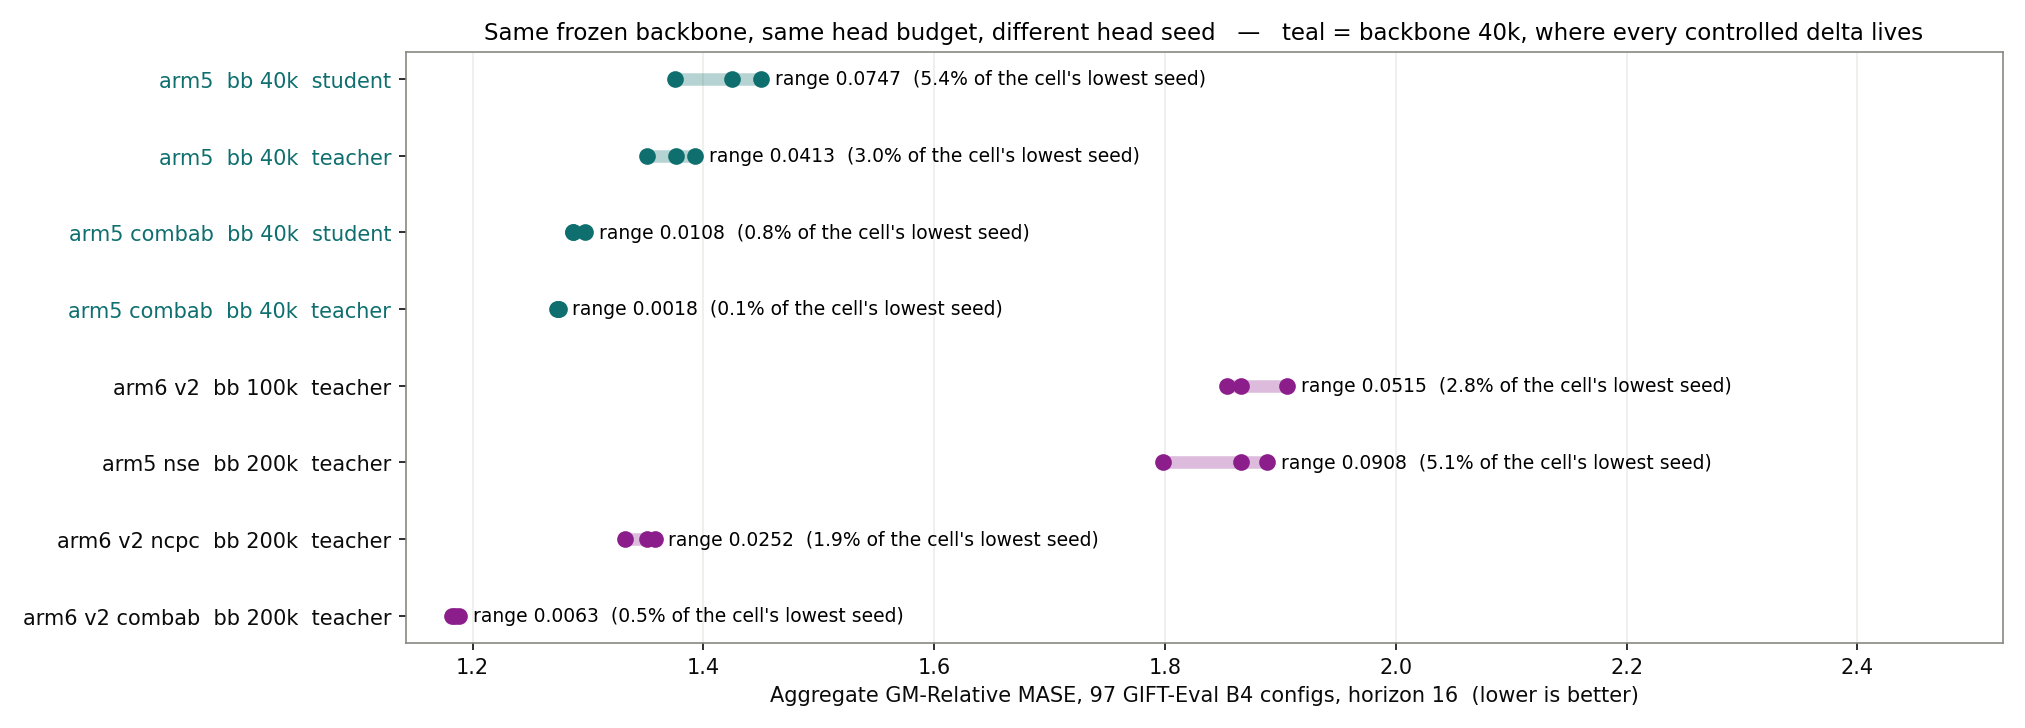
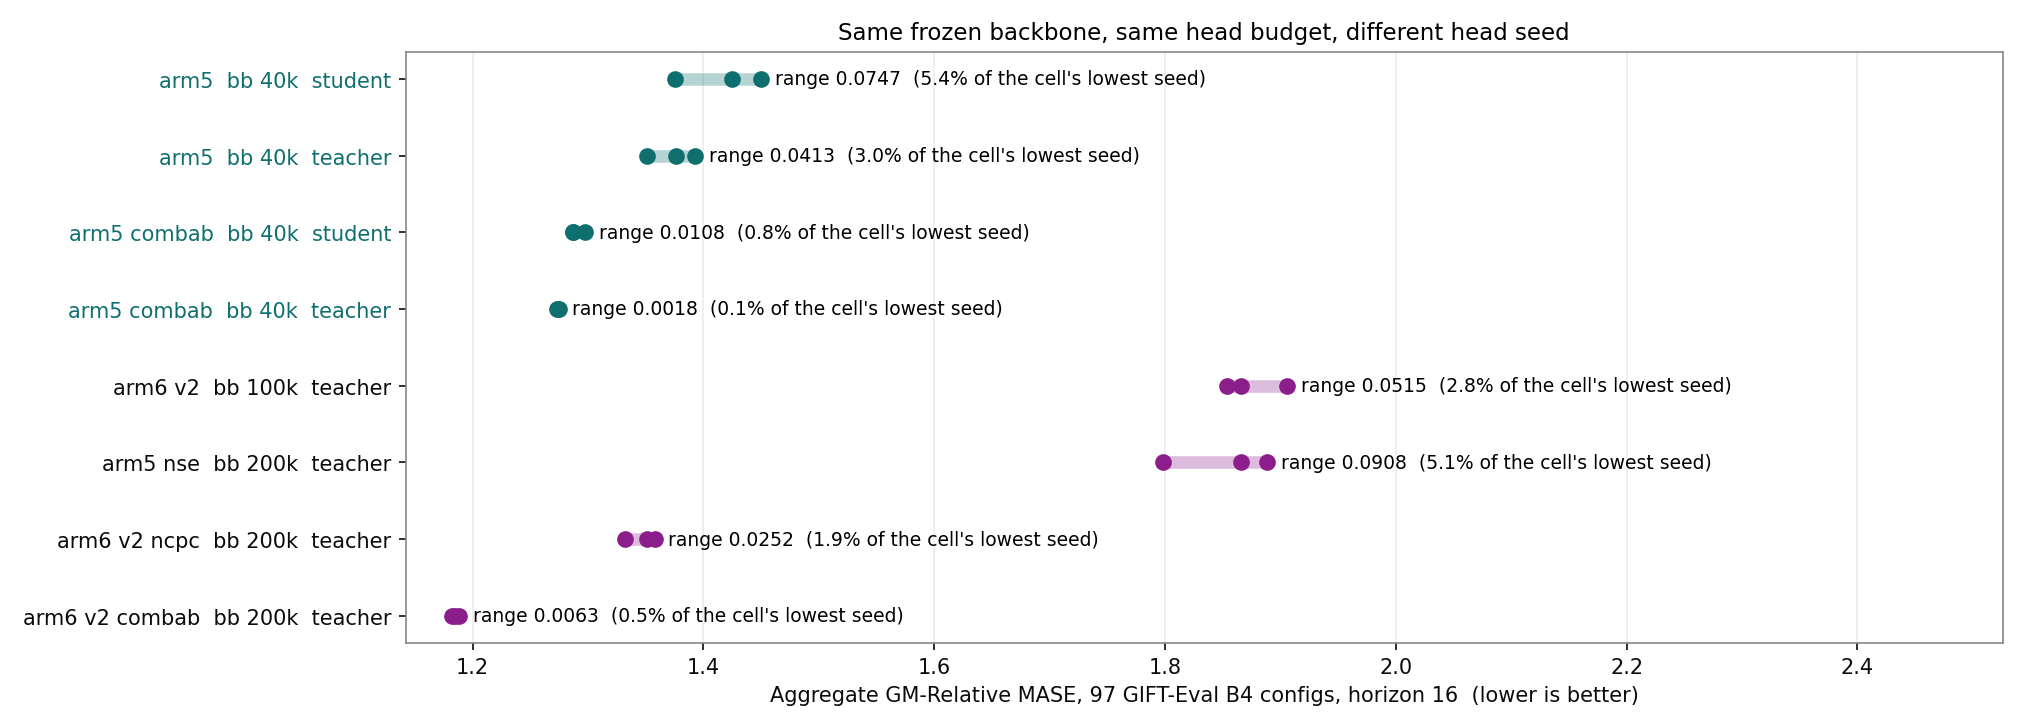
exp(#390): twenty-first-pass report — presentation only: two-sentence opening, glossary folded into the protocol, duplicated replicate datum stated once, exact 0.0977 in the 100k caption

Changed region(s): [[0.2178, 0.0302, 0.9644, 0.0604]]

diff --git a/reports/2026-08-04_lalign_teacher/plots/_make_seed_spread.py b/reports/2026-08-04_lalign_teacher/plots/_make_seed_spread.py
@@ -60,8 +60,7 @@ for lab, r in zip(ax.get_yticklabels(), rows[::-1]):
     lab.set_color(C_40K if int(r["bb_steps"]) == CONTROLLED_BB else INK)
 ax.set_xlabel("Aggregate GM-Relative MASE, 97 GIFT-Eval B4 configs, "
               "horizon 16  (lower is better)")
-ax.set_title("Same frozen backbone, same head budget, different head seed"
-             "   —   teal = backbone 40k, where every controlled delta lives",
+ax.set_title("Same frozen backbone, same head budget, different head seed",
              fontsize=11)
 ax.grid(True, axis="x", color=GRID, alpha=0.6)
 lo = min(float(v) for r in rows for v in r["values"].split())

diff --git a/reports/2026-08-04_lalign_teacher/lalign_teacher.md b/reports/2026-08-04_lalign_teacher/lalign_teacher.md
@@ -1,6 +1,6 @@
 # The EMA-teacher alignment target does not move the ten-cell set at backbone 40k, within a bound of about 0.09 GM-Relative MASE
 
-Six of the ten controlled pairs favour the teacher and four the student, a split the paired tests do not separate from zero. Of the two cells re-headed under three head seeds, the larger effect changes sign and the smaller one, `arm5 combab`, does not, moving down by 0.017 on the seed mean.
+Six of the ten controlled pairs favour the teacher and four the student, a split the paired tests do not separate from zero. Of the two cells re-headed under three head seeds, the larger effect changes sign under re-heading and the smaller one, `arm5 combab`, does not.
 
 ![Teacher minus student GM-Relative MASE at backbone 40k](plots/controlled_vs_cross_delta.png)
 
@@ -10,21 +10,11 @@ Six of the ten controlled pairs favour the teacher and four the student, a split
 >
 > **`⟲`** — the cell was retrained with `--align-target teacher`.
 >
-> **EMA teacher** — an exponential-moving-average copy of the encoder weights.
->
-> **Student target** — `--align-target student`, which takes the alignment target from the student encoder under stop-gradient. It is the comparison side of every controlled delta here.
->
-> **Re-headed** — the quantile head was retrained on the same frozen backbone under a different `--seed`. The backbone is unchanged.
->
-> **Code snapshot** — which checkout produced a number: `#390-branch` is this branch, `#379-sweep` is the earlier sweep it is compared against. The column is `code_snapshot` in `results/gm_relative_mase.csv`.
->
 > **GM-Relative MASE** — the metric of every figure here; lower is better, 1.0 is parity with seasonal naive (full definition in [Protocol](#8-protocol)).
 
 ![Per-seed GM-Relative MASE on eight frozen backbones](plots/head_seed_spread.png)
 
 *Eight frozen backbones, every cell in this report carrying replicate head seeds (`results/seed_spread.csv`). Teal = backbone 40k, both sides of the controlled comparison.*
-
-Counting the ten pairs as ten, the bound is 6.6% of 1.3455, the median GM-Relative MASE of the twenty backbone-40k measurements the pairs are built from, and the two loss recipes, which are the units the design actually replicates, have means running in opposite directions ([Protocol](#8-protocol)).
 
 ## 1. Across backbone horizons
 
@@ -39,8 +29,6 @@ Counting the ten pairs as ten, the bound is 6.6% of 1.3455, the median GM-Relati
 ![GM-Relative MASE of the 8 cells extended to backbone 200k](plots/eval_2L_gm_mase_bars_200k.png)
 
 *The 8 cells extended to backbone 200k. Filled dot = 200k, hollow = 100k, whisker = measured head-seed range (3 of 8 cells).*
-
-Five of those eight score lower again at 200k.
 
 ## 2. Per-domain
 
@@ -76,7 +64,7 @@ No non-finite loss or gap appears in any of the 40 backbones, and `arm1 combab` 
 
 ## 6. Reproduction control
 
-Nine of the ten student controls reproduce the earlier sweep's number and share their backbone trace with it step for step, while `arm5 base` ⧗ differs by backbone replicate, not by code, the earlier sweep having published replicate r3 where this branch reproduces r1 at all 40 000 steps and r3 at none ([table](#student-control-against-the-earlier-sweep-backbone-40k), `results/replicate_provenance_40k.csv`, [`results/README.md`](results/README.md)).
+Nine of the ten student controls reproduce the earlier sweep's number and share their backbone trace with it step for step. `arm5 base` ⧗ differs by backbone replicate, not by code: the earlier sweep published r3, this branch reproduces r1 at all 40 000 steps and r3 at none ([table](#student-control-against-the-earlier-sweep-backbone-40k), `results/replicate_provenance_40k.csv`, [`results/README.md`](results/README.md)).
 
 ## 7. Tables
 
@@ -149,7 +137,7 @@ Nine of the ten student controls reproduce the earlier sweep's number and share 
 | `arm6_v2 ncpc` | 1.3012 | 1.2978 | 1.0027 | 0.9672 | 1.0452 | no |
 | `arm6_v2 combab` | 1.2514 | 1.1616 | 1.0773 | 1.0439 | 1.1254 | yes |
 
-*Backing data for section 3. Ratio = teacher ÷ earlier sweep, below 1.0 means the teacher run scored lower. Intervals are 95% dataset-cluster bootstraps (`results/eval_bootstrap_ci.csv`) and cover eval sampling only. All ten arms left more than one backbone replicate in the earlier sweep, but they are sequential continuations with disjoint step ranges, and on all ten exactly one replicate spans step 100 000 (`results/replicate_provenance_40k.csv`), so no row here had a replicate to pick wrong. ⧗ marks the one arm whose 40k row sits on a different replicate, where the mismatch is worth about 0.1.*
+*Backing data for section 3. Ratio = teacher ÷ earlier sweep, below 1.0 means the teacher run scored lower. Intervals are 95% dataset-cluster bootstraps (`results/eval_bootstrap_ci.csv`) and cover eval sampling only. All ten arms left more than one backbone replicate in the earlier sweep, but they are sequential continuations with disjoint step ranges, and on all ten exactly one replicate spans step 100 000 (`results/replicate_provenance_40k.csv`), so no row here had a replicate to pick wrong. ⧗ marks the one arm whose 40k row sits on a different replicate, where the mismatch is worth 0.0977.*
 
 ### The controlled comparison at backbone 40k
 
@@ -260,7 +248,9 @@ Nine of the ten student controls reproduce the earlier sweep's number and share 
 - **Latent drift** at checkpoint pair `(step_i, step_j)` — `mean_{b,t,c} 1 − cos(h_t(model_j), h_t(model_i))` on a fixed held-out batch (`torch.manual_seed(20260722)`, `B=8`, `T=4096`, `C=1`, ARMA-synthetic), and the same for `e_t`. A setting counts as *lower* than base when its mean drift over adjacent-checkpoint pairs falls below the base setting of the same recipe; the section-4 denominator is the six recipes and the p is a two-sided exact binomial test.
 - **Late drift** — the mean `h_t` drift over adjacent-checkpoint pairs beyond backbone step 100 000.
 - **`u_batchtime`** — `1/(d · off-diagonal Gram mean)` over `(B×T)` samples of the given latent, clamped to [0, 1]. 1 = every `H` dimension carries independent information.
-- **`L_align`** — `(2 − 2·cos(f_t, h_target_{t+1})).mean()`, pulling the forecaster output toward the next encoder latent, gradient through the forecaster only. `--align-target student` takes `h_target` from the student encoder under stop-gradient; `--align-target teacher` takes it from the EMA teacher. The ten `⟲` cells are the teacher setting.
+- **`L_align`** — `(2 − 2·cos(f_t, h_target_{t+1})).mean()`, pulling the forecaster output toward the next encoder latent, gradient through the forecaster only. `--align-target student` takes `h_target` from the student encoder under stop-gradient; `--align-target teacher` takes it from the EMA teacher, an exponential-moving-average copy of the encoder weights. The student target is the comparison side of every controlled delta here; the ten `⟲` cells are the teacher setting.
+- **Re-headed** — the quantile head was retrained on the same frozen backbone under a different `--seed`. The backbone is unchanged.
+- **Code snapshot** — which checkout produced a number: `#390-branch` is this branch, `#379-sweep` is the earlier sweep it is compared against. The column is `code_snapshot` in `results/gm_relative_mase.csv`.
 - **Loss window** — each loss value in section 5 is the mean over the first, or the last, 5% of the logged steps of that window, not the value at a single step. **Rise-from-minimum** is the run's final loss minus the lowest loss it ever recorded; rank 1 = lowest of the 40 backbones, the same direction as the peak qk logit rank.
 - **Peak qk logit** — `qk_logit_maxabs`, the peak absolute pre-softmax attention logit, logged every 200 steps; the table value is the maximum over layers, over the `enc` and `fcst` blocks, and over the run, while the lower panels of the section-5 figure plot it averaged over layers and blocks. Rank 1 = lowest of the 40 backbones.
 
@@ -290,11 +280,10 @@ Eight cells were additionally re-headed under seeds 20260723 and 20260724 on the
 
 - The head budget changes with the backbone step (15k at 40k, 30k at 100k and 200k), so any within-arm statement across backbone steps moves two things at once.
 - The left radar of section 2 mixes cells measured at backbone 100k and at 200k, so it moves the backbone step as well as the cell.
-- The `code_snapshot_shift` row of `results/controlled_paired_tests_40k.csv` has `min_delta` −0.0977, which is the `arm5 base` backbone-provenance case of section 6, not a code-snapshot difference.
 - The 200k row compares a teacher-selected subset against a differently selected subset of the earlier sweep, so no like-for-like 200k claim is available.
 - The ten per-cell intervals in the headline figure are 95% and uncorrected for the ten comparisons, so a per-cell reading is not a family-wise claim. The aggregate tests over the set of ten are the right frame (`results/controlled_paired_tests_40k.csv`).
 - Every backbone in this report, both targets, is seed 20260520. Nine of ten controls reproducing the earlier sweep therefore measures determinism given that seed, not the spread across backbone seeds. No cell here carries a second backbone seed.
-- One cell does carry a second backbone *trajectory*, and it is the largest replication datum in the run. `arm5 base`, student target, backbone 40k, same config and same seed 20260520 on all 97 configs, scores 1.4501 on replicate r1 and 1.5478 on r3: 0.0977 apart. That is larger than every 40k head-seed range measured here (0.0018 to 0.0747) and larger than the aggregate bound in the opening, and it sits within 0.001 of that same cell's own controlled delta, −0.0986: retraining this configuration from the same seed moves the cell about as much as switching the flag does. It is `n = 1` and it comes from a resume-induced divergence rather than a fresh backbone seed, so read it as a lower bound on backbone-trajectory spread, not as a seed-spread measurement. Everything else in this report's uncertainty budget is head seeds and eval sampling.
+- One cell does carry a second backbone *trajectory*, and it is the largest replication datum in the run: the `arm5 base` replicate mismatch of section 6. That 0.0977 is larger than every 40k head-seed range measured here (0.0018 to 0.0747) and larger than the aggregate bound in the opening, and it sits within 0.001 of that same cell's own controlled delta, −0.0986: retraining this configuration from the same seed moves the cell about as much as switching the flag does. It is `n = 1` and it comes from a resume-induced divergence rather than a fresh backbone seed, so read it as a lower bound on backbone-trajectory spread, not as a seed-spread measurement. Everything else in this report's uncertainty budget is head seeds and eval sampling.
 - The head-seed spread is measured on 2 of the 10 controlled cells, `arm5 base` and `arm5 combab`; the other eight are marked `not measured`, not given a borrowed spread. Those two were picked by hand after their single-seed deltas were known, with no selection rule fixed in advance, and `arm5 ncpc` carries the largest single-seed difference of the run, −0.2156, and was never re-headed. So the surviving cell is one of two tested, not one of ten, and its 3-of-3 sign observation is p = 0.25 on its own, over per-seed differences running −0.0133 to −0.0230.
 - The ten pairs are two loss recipes by five settings on one backbone seed, and every pair shares the student baseline of its recipe's design, so `n = 10` in the sign and Wilcoxon tests is a nominal ten, not ten independent pairs. The two recipe means are −0.0657 (`arm5`) and +0.0273 (`arm6_v2`); with two clusters the support of a cluster-resampled mean is exactly those two values, so that enumeration is degenerate and the interval quoted in the opening is the t over the ten pairs.
 - Backbone provenance was checked by span query at backbone 40k and at backbone 100k. At 40k exactly one arm, `arm5`, carries two replicates spanning the step, and that is the one mismatch section 6 finds; at 100 000 no arm does, because the extra replicates are sequential continuations with disjoint ranges. A replicate deleted before the manifest was built would not appear in either query.
@@ -311,6 +300,6 @@ Eight cells were additionally re-headed under seeds 20260723 and 20260724 on the
 
 *`u_batchtime` on `h_t` and on `e_t`, per training step (`results/training_curves/`). Per-panel y-scale.*
 
-## 9. Data
+### Data
 
 The pre-teacher measurements of the same ten cells are in [`reports/2026-07-21_split_pred_rep_small/small_long.md`](../2026-07-21_split_pred_rep_small/small_long.md).
